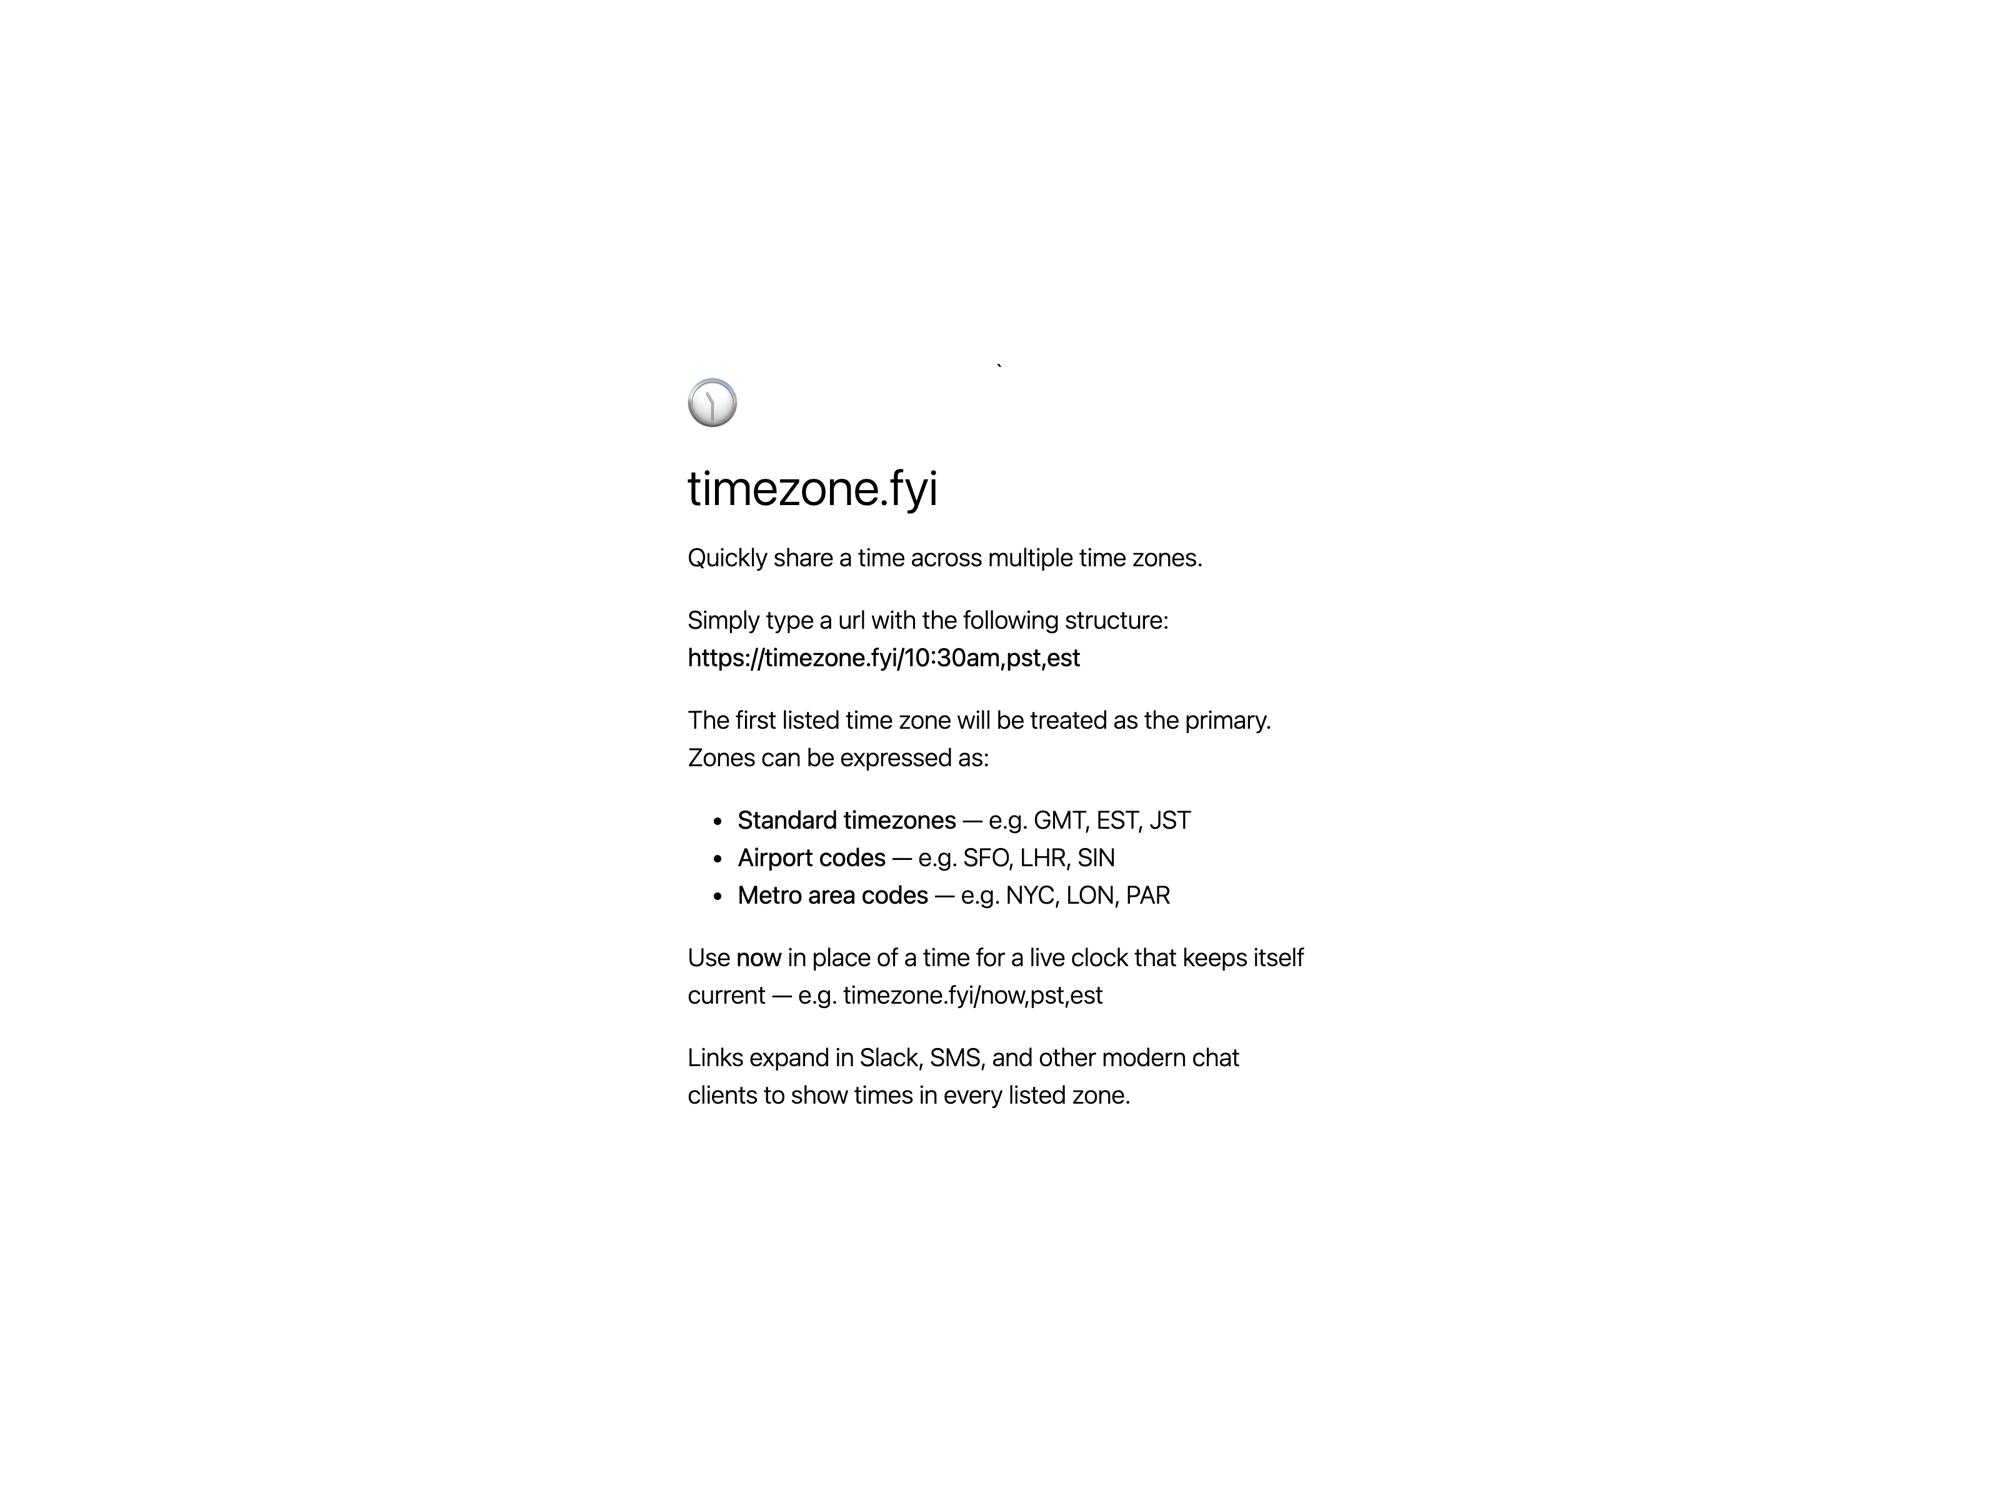
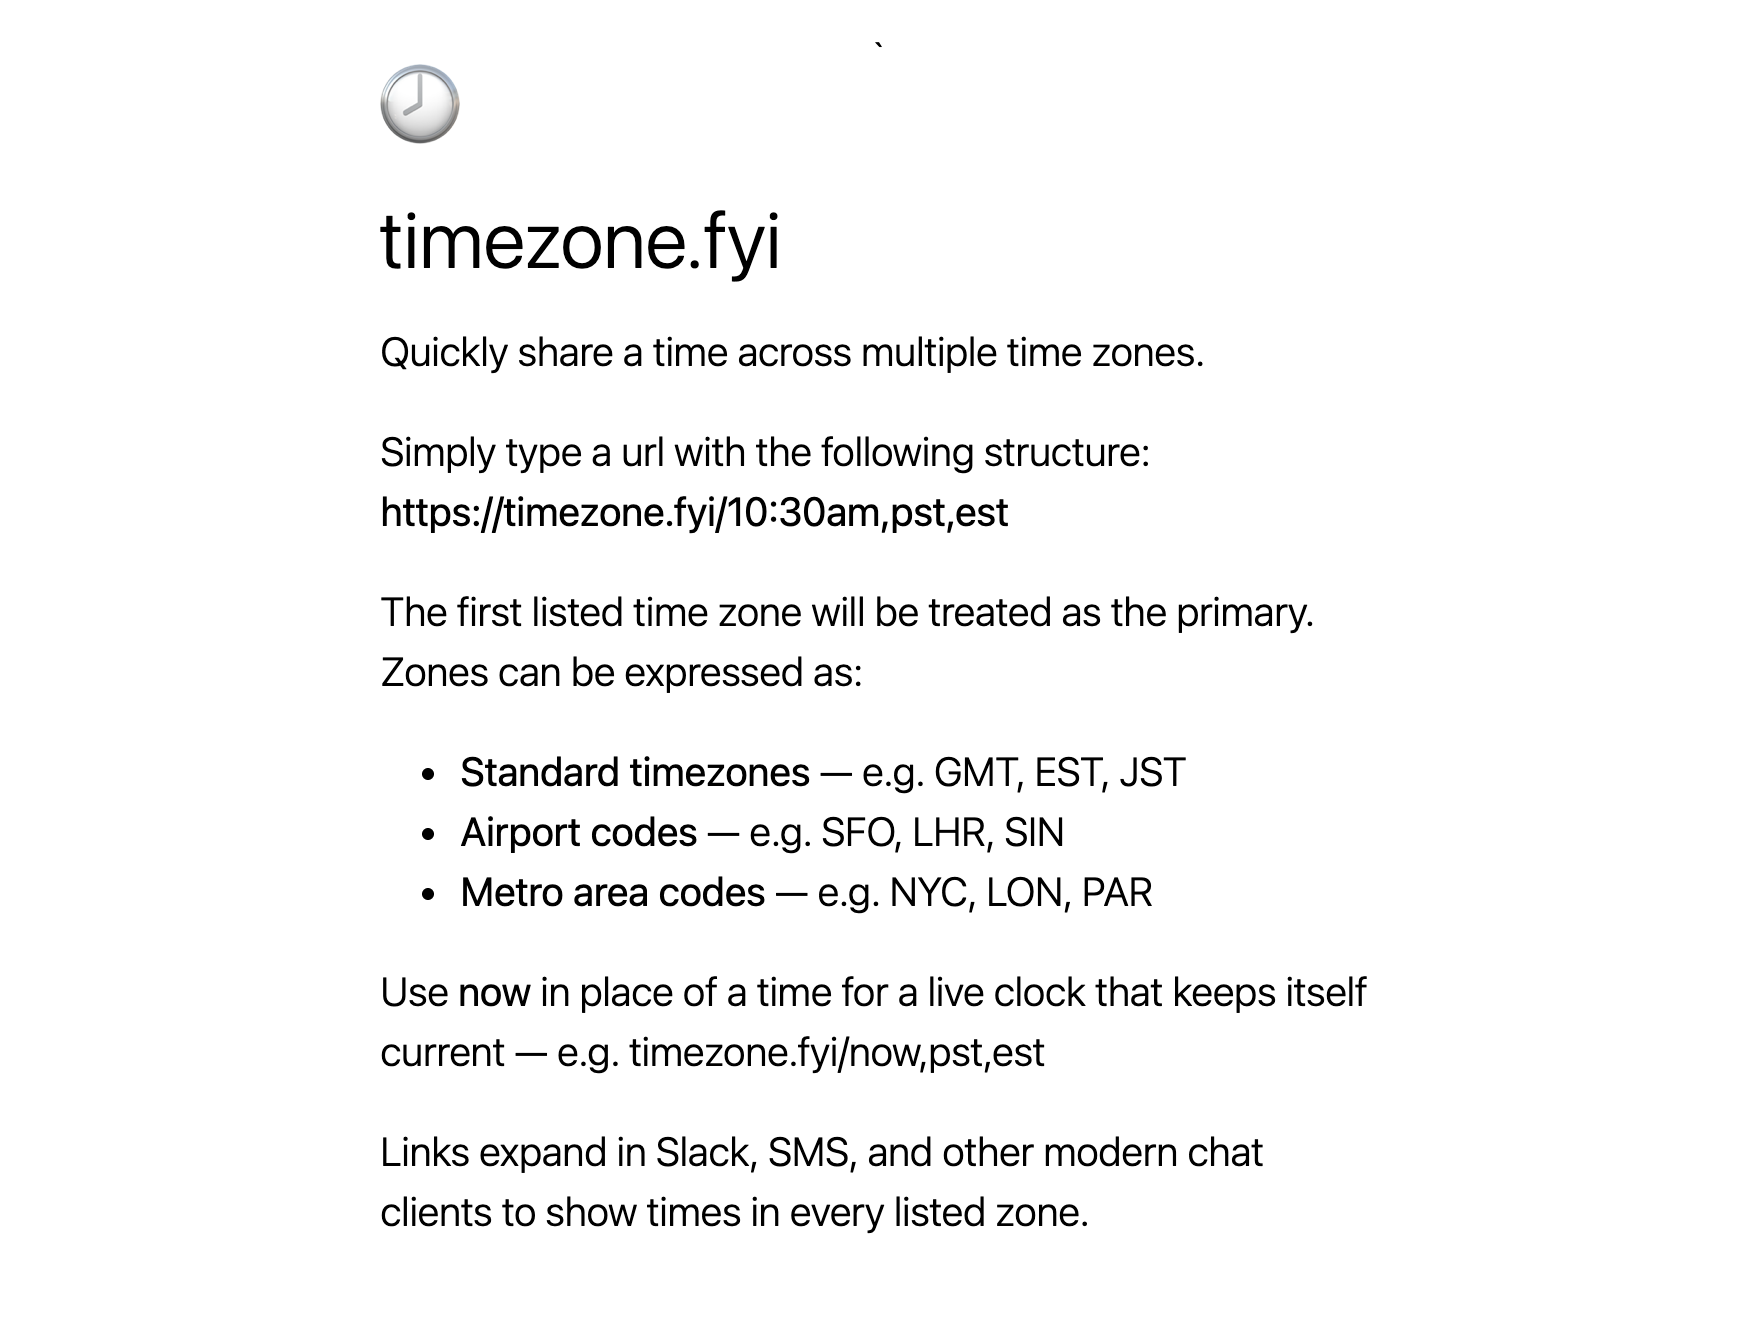
Title the entry timezone.fyi and recapture the landing page
The site and README write the name in lowercase with the dot. home.png is retaken at a narrower viewport so the text fills the frame. The README pointer no longer mentions an icon, which the folder lacks.

diff --git a/README.md b/README.md
@@ -89,4 +89,4 @@ Deployed on [Netlify](https://netlify.com). Push to `main` to deploy.
 
 ## Catalogue
 
-The catalogue entry for this product lives in [`.artifact/timezone-fyi.md`](.artifact/timezone-fyi.md), with its icon and images beside it. Edit it here, in the same PR as any change that would make it wrong.
+The catalogue entry for this product lives in [`.artifact/timezone-fyi.md`](.artifact/timezone-fyi.md), with its images beside it. Edit it here, in the same PR as any change that would make it wrong.

diff --git a/.artifact/timezone-fyi.md b/.artifact/timezone-fyi.md
@@ -1,5 +1,5 @@
 ---
-title: Timezone.fyi
+title: timezone.fyi
 date: 2020-11
 category: product
 tags:
